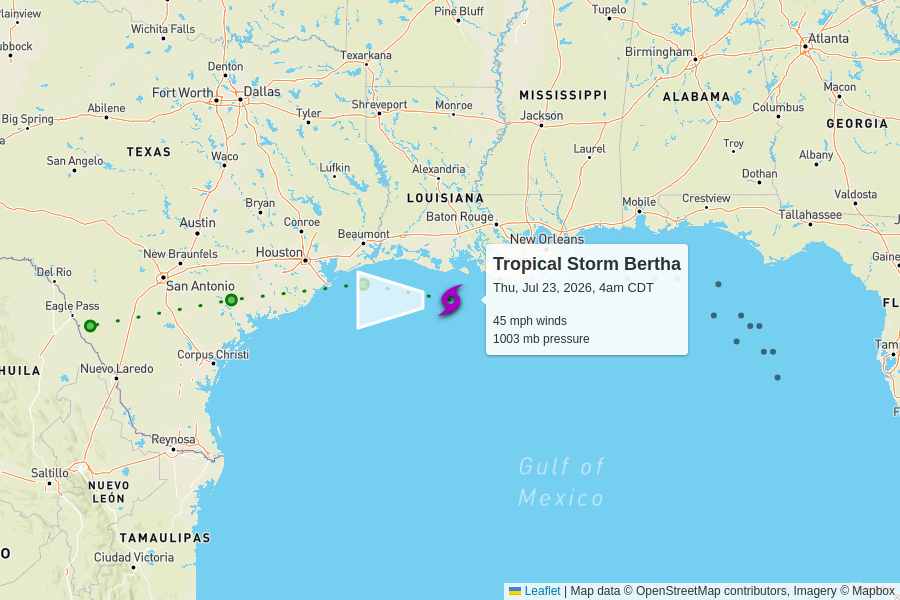
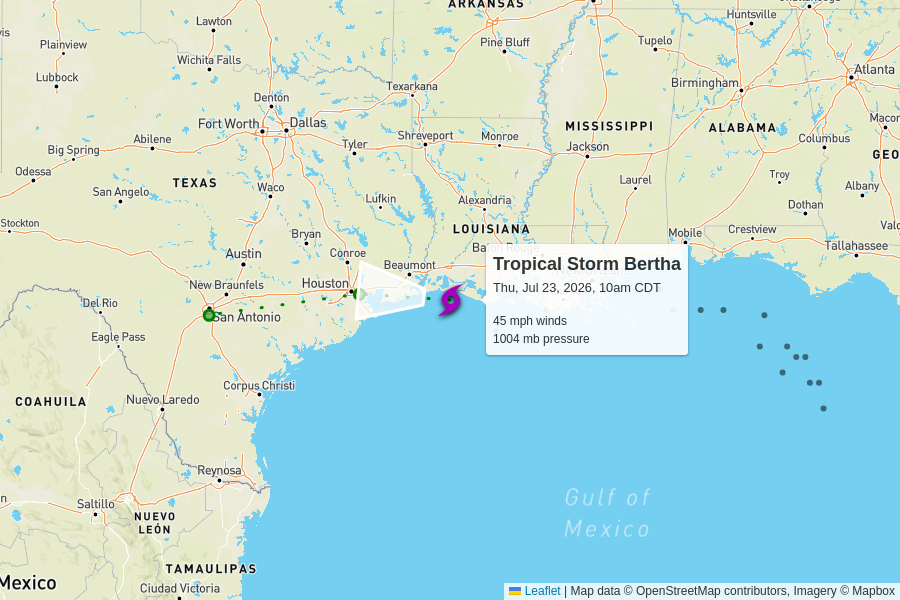
automatic update

diff --git a/docs/index.html b/docs/index.html
@@ -102,7 +102,7 @@
         <td colspan="6" class="storm category-0" >
           <h2>
             Tropical Storm Bertha
-            <p class="updated">last updated <span data-time>2026-07-23T09:00:00.000Z</span></p>
+            <p class="updated">last updated <span data-time>2026-07-23T15:00:00.000Z</span></p>
           </h2>
         </td>
       </tr>
@@ -118,11 +118,11 @@
       <tr>
         <td class="spacer"></td>
         <td>45 mph<br>0 mph since last update</td>
-        <td>1003 mb<br>+1 mb since last update</td>
+        <td>1004 mb<br>+1 mb since last update</td>
         <td>
-          13 mph to the west
+          10 mph to the west
           <br/>
-          <span style="display: inline-block; font-size: 1.5em; transform: rotate(270deg);">↑</span>
+          <span style="display: inline-block; font-size: 1.5em; transform: rotate(275deg);">↑</span>
         </td>
         <td><a href="https://raw.githubusercontent.com/mgwalker/atlantic-hurricanes/main/data/csv/AL022026.csv">AL022026.csv</a></td>
         <td><a href="https://www.nhc.noaa.gov/archive/2026/BERTHA.shtml?">NHC advisories</a></td>